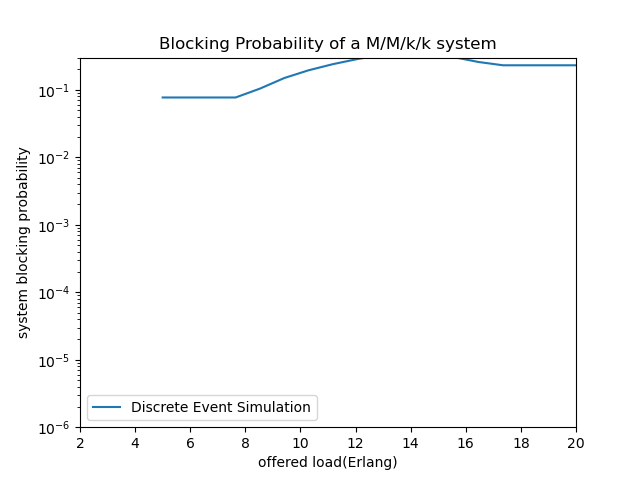
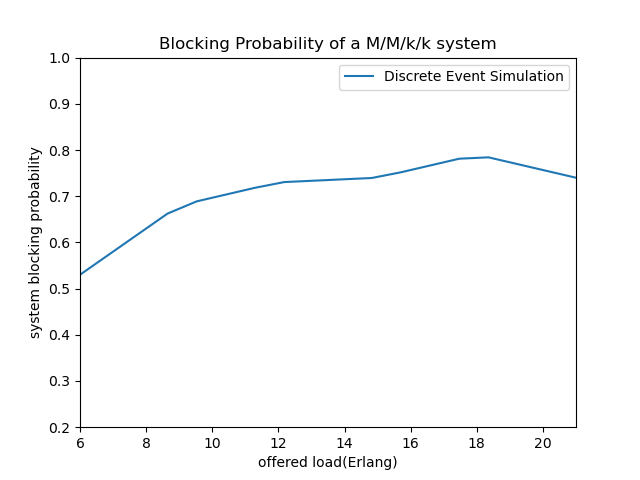
part 3 complete

diff --git a/part_three/main.py b/part_three/main.py
@@ -15,19 +15,20 @@ if __name__ == "__main__":
     
     bpr = []
     k = math.floor(42/2)
-    lamda = 20
-    offered_load =[]
-    for i in range(0,6):
+    lamda = k
+    max_arrival = 100
+    offered_load = []
+    for sim in range(0,6):
         links = {
-        'l1' : 10,
-        'l2' : 15,
-        'l3' : 10,
-        'l4' : 20,
-        'l5' : 15,
-        'l6' : 20,
-        'l7' : 15,
-        'l8' : 15,
-        'l9' : 20
+        'l1' : [10,[0]*max_arrival],
+        'l2' : [15,[0]*max_arrival],
+        'l3' : [10,[0]*max_arrival],
+        'l4' : [20,[0]*max_arrival],
+        'l5' : [15,[0]*max_arrival],
+        'l6' : [20,[0]*max_arrival],
+        'l7' : [15,[0]*max_arrival],
+        'l8' : [15,[0]*max_arrival],
+        'l9' : [20,[0]*max_arrival]
         }
 
 
@@ -44,13 +45,11 @@ if __name__ == "__main__":
             10:['l1','l2']
         }
         
-        max_arrival = 13
 
         arrival_time = [0] * max_arrival
         service_duration = [0] * max_arrival
-        no_busy_server = [0] * max_arrival
+        
         block_accept = [False] * max_arrival
-        service_finish_time = [0] * max_arrival
 
         arrival_time[0] = 1
         avg_inter_arrival_time = 1/lamda
@@ -61,32 +60,36 @@ if __name__ == "__main__":
         
         for i in range(0,max_arrival):
             service_duration[i] = npr.exponential((1/mu))
+        
 
-        no_busy_server[0] = 0
-
+        current_path = random.randint(1, 10)
+        
         block_accept[0] = False
 
-        service_finish_time[0] = arrival_time[0] + service_duration[0]
+        for link in paths[current_path]:
+            links[link][1][0] = arrival_time[0] + service_duration[0]
 
         for i in range(1,max_arrival):
             current_path = random.randint(1, 10)
 
-            for j in range(i-1,0,-1):
-                if service_finish_time[j] > arrival_time[i]:
-                    for link in paths[current_path]:
-                        links[link] = links[link] - 1
-
-            for link in paths[current_path]:      
-                if links[link] > 0:
+            for link in paths[current_path]:
+                for j in range(i-1,0,-1):
+                    if links[link][1][j] > arrival_time[i] and links[link][0] > 0:
+                        links[link][0] = links[link][0] - 1
+                        
+                              
+                if links[link][0] > 0:
                     block_accept[i] = False
-                    service_finish_time[i] = arrival_time[i] + service_duration[i]
                     
                 else:
                     block_accept[i] = True
-                    
                     break
+                    
+                links[link][1][i] = arrival_time[i] + service_duration[i]
+            
+
         
-        print(sum(block_accept), lamda)
+        print(sum(block_accept))
         b = sum(block_accept)/max_arrival
 
         bpr.append(b)
@@ -122,10 +125,10 @@ if __name__ == "__main__":
     ax.set(xlabel='offered load(Erlang)', ylabel='system blocking probability',
         title="Blocking Probability of a M/M/k/k system")
 
-    ax.set_yscale('log')
+    # ax.set_yscale('log')
 
-    plt.ylim(10**-6,0.3)
-    plt.xlim(2,20)
+    plt.ylim(0.2,1)
+    plt.xlim(6,k)
     
 
     fig.savefig("results.png")
